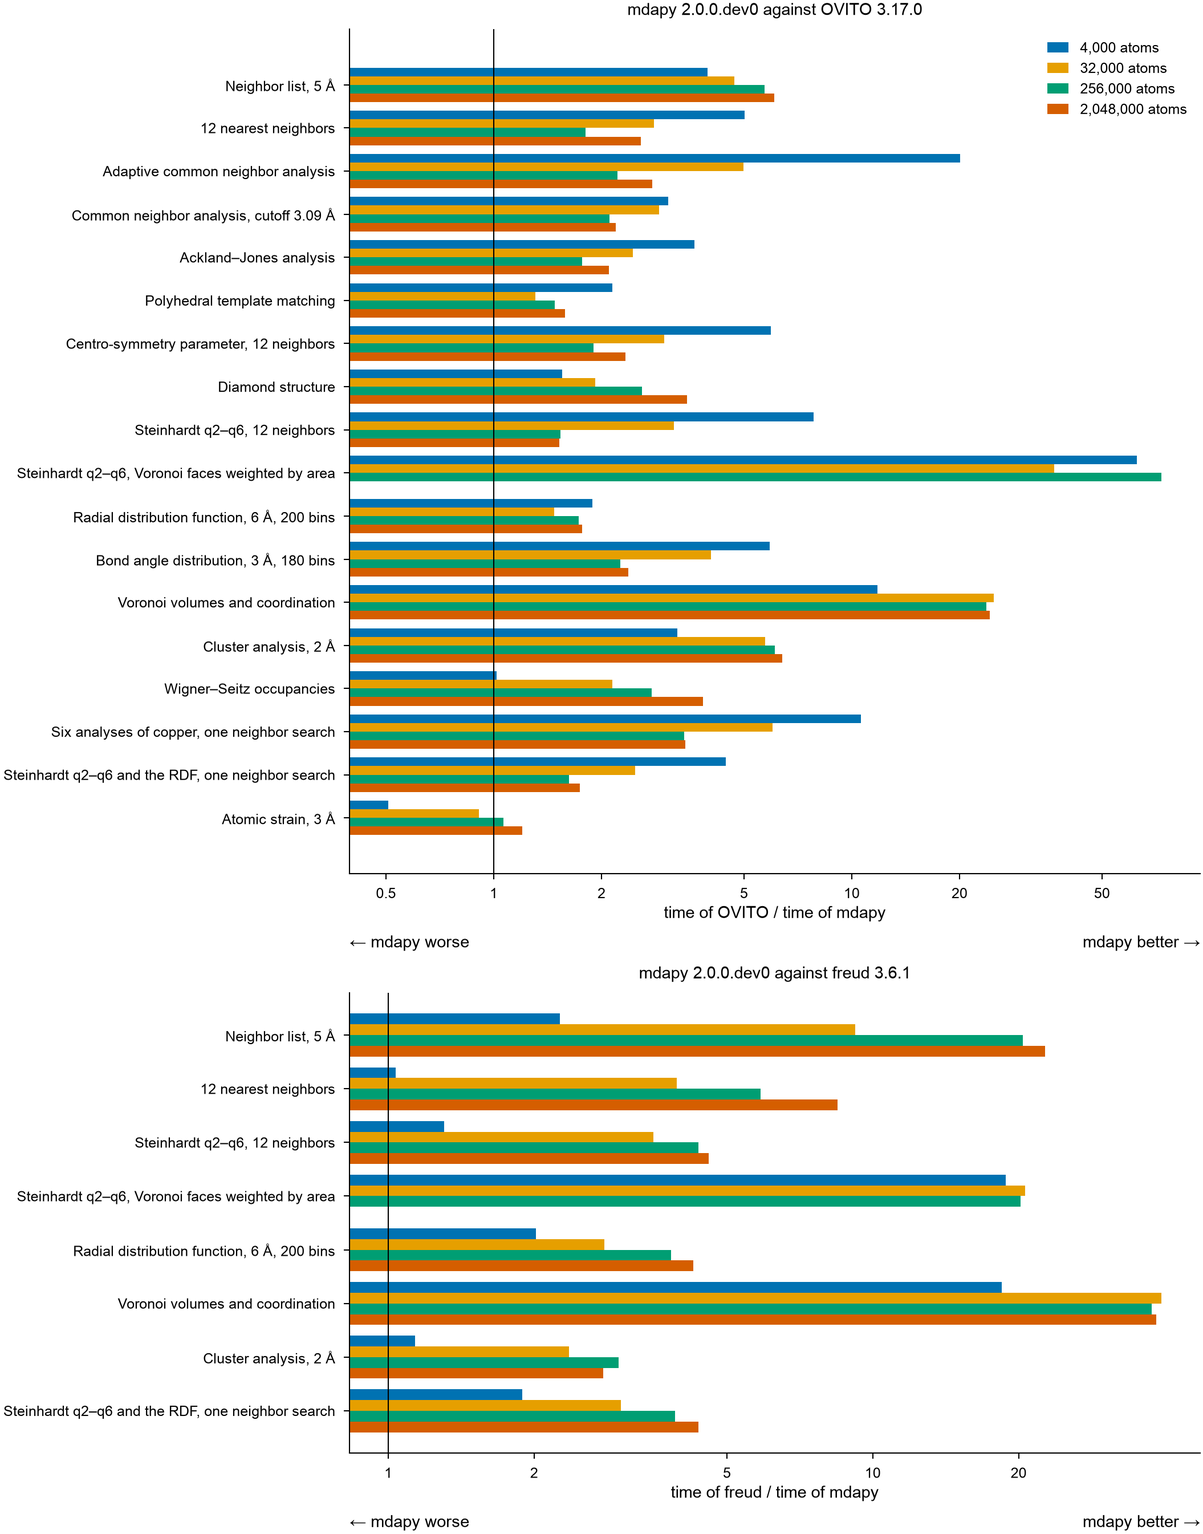
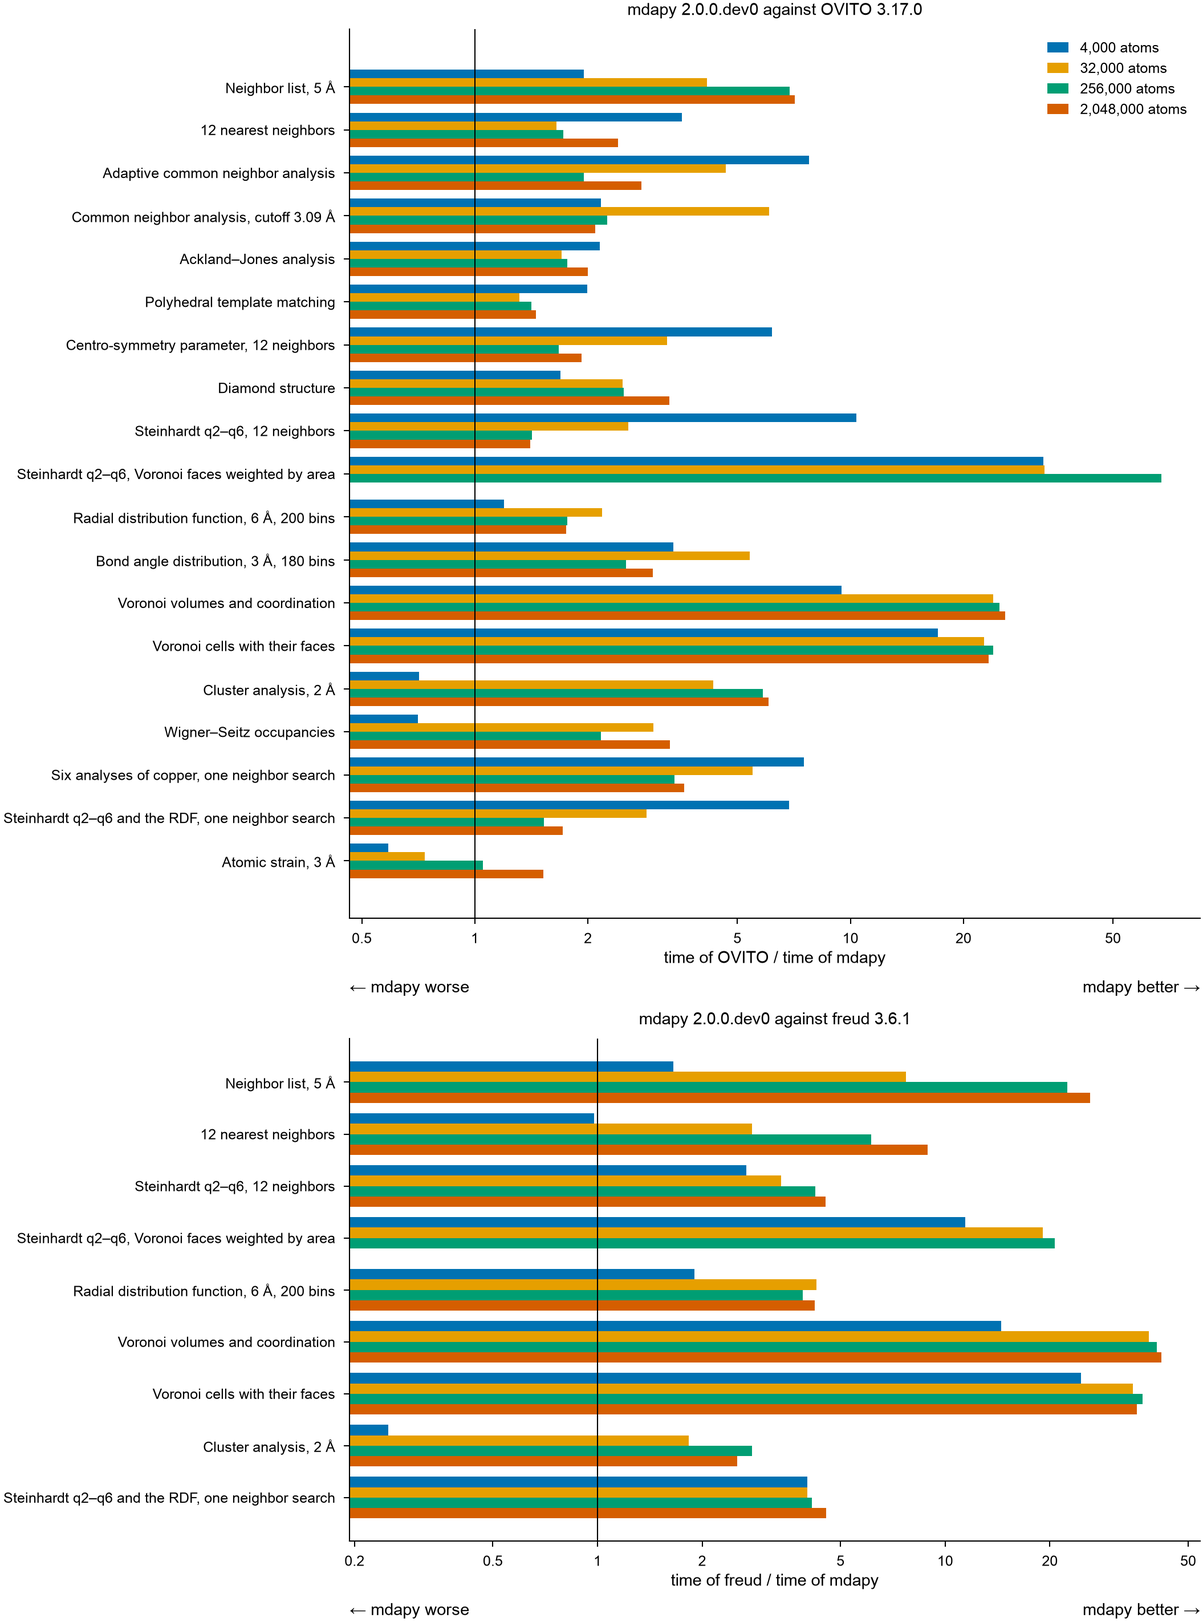
Analyses timings with the Voronoi faces on demand
The analyses group run again on a Triton node, with the Voronoi cells
timed alone and with their faces; four cases rerun where the first run
gave twice the time of every other.

diff --git a/docs/performance/comparison.md b/docs/performance/comparison.md
@@ -8,7 +8,7 @@ where it gives the result of mdapy, atom by atom.
 ## Results
 
 A node of the Triton cluster of Aalto University, alone for the run: two
-Intel Xeon Gold 6230 (40 cores, two NUMA nodes), 191 GB, Linux. Python 3.13,
+Intel Xeon Gold 6248 (40 cores, two NUMA nodes), 191 GB, Linux. Python 3.13,
 mdapy 2.0.0.dev0 built with GCC 12.3, OVITO 3.17.0 and freud 3.6.1 from
 pip, each with 40 threads.
 
@@ -17,24 +17,30 @@ pip, each with 40 threads.
 ### What they show
 
 - **OVITO**: from 256 000 atoms on, mdapy is faster in every analysis they
-  share. It builds neighbor lists 4 to 6 times faster in a quarter of the
-  memory, Voronoi cells 24 times faster, Steinhardt parameters over Voronoi
-  faces 37 to 73 times and cluster analysis 6 times; the other analyses
-  take 1.5 to 3.8 times less time. Atomic strain is the closest: OVITO is
-  faster below some 100 000 atoms (twice at 4 000, 1.1 times at 32 000),
-  mdapy above (1.06 times at 256 000, 1.2 times at 2 million).
-- **freud**: mdapy is faster in every analysis at every size: neighbor
-  lists 9 to 23 times from 32 000 atoms on, in a seventh of the memory; the
-  12 nearest neighbors 4 to 8 times; Voronoi cells 38 times; Steinhardt
-  parameters and the radial distribution function 2.8 to 4.6 times; cluster
-  analysis 2.4 to 3 times.
+  share. It builds neighbor lists 7 times faster in a quarter of the
+  memory, Voronoi cells 23 to 26 times faster, Steinhardt parameters over
+  Voronoi faces 33 to 67 times and cluster analysis 6 times; the other
+  analyses take 1.4 to 3.6 times less time. Atomic strain is the closest:
+  OVITO is faster below some 200 000 atoms (1.7 times at 4 000 and 1.4
+  times at 32 000), mdapy above (1.05 times at 256 000, 1.5 times at 2
+  million).
+- **freud**: from 32 000 atoms on, mdapy is faster in every analysis:
+  neighbor lists 8 to 26 times, in a seventh of the memory; the 12 nearest
+  neighbors 2.8 to 9 times; Voronoi cells 35 to 42 times; Steinhardt
+  parameters and the radial distribution function 3.4 to 4.5 times;
+  cluster analysis 1.8 to 2.8 times.
 - **One neighbor search for several analyses**: the six analyses of copper
-  from one list take 1.21 s at 2 million atoms, against 2.07 s for the six
-  cases timed apart (0.16 s against 0.29 s at 256 000; the radial
+  from one list take 0.81 s at 2 million atoms, against 1.48 s for the six
+  cases timed apart (0.11 s against 0.21 s at 256 000; the radial
   distribution function apart reaches 6 Å instead of 5 Å). OVITO's pipeline
-  of the six takes about the sum of its cases (4.15 s against 4.35 s).
+  of the six takes about the sum of its cases (2.93 s against 3.04 s).
+- **Voronoi faces on demand**: the volumes and coordination of 2 million
+  cells take mdapy 0.92 s and 130 MB; with every face, its neighbor, area
+  and edges, 1.08 s and 1.6 GB.
 - **4 000 atoms** take a few milliseconds; mdapy is faster there in every
-  analysis but atomic strain.
+  analysis but cluster analysis, Wigner–Seitz occupancies and atomic
+  strain against OVITO, and cluster analysis against freud (0.001 s
+  against 0.004 s); the 12 nearest neighbors are on par with freud.
 - **Not run**: Steinhardt parameters over Voronoi faces at 2 million atoms,
   which took OVITO 678 s in an earlier run.
 
@@ -48,113 +54,121 @@ process minus its peak before the timings.
 
 | Case | Atoms | mdapy 2.0.0.dev0 (s) | OVITO 3.17.0 (s) | OVITO / mdapy | mdapy (MB) | OVITO (MB) |
 |---|---:|---:|---:|---:|---:|---:|
-| Neighbor list, 5 Å | 4,000 | 0.004 | 0.016 | 3.96 | 0 | 10 |
-| Neighbor list, 5 Å | 32,000 | 0.009 | 0.042 | 4.70 | 18 | 92 |
-| Neighbor list, 5 Å | 256,000 | 0.038 | 0.216 | 5.70 | 186 | 758 |
-| Neighbor list, 5 Å | 2,048,000 | 0.272 | 1.655 | 6.08 | 1362 | 5324 |
-| 12 nearest neighbors | 4,000 | 0.003 | 0.015 | 5.01 | 0 | 0 |
-| 12 nearest neighbors | 32,000 | 0.007 | 0.019 | 2.80 | 2 | 12 |
-| 12 nearest neighbors | 256,000 | 0.042 | 0.076 | 1.81 | 49 | 100 |
-| 12 nearest neighbors | 2,048,000 | 0.252 | 0.647 | 2.57 | 343 | 751 |
-| Adaptive common neighbor analysis | 4,000 | 0.001 | 0.027 | 20.06 | 0 | 0 |
-| Adaptive common neighbor analysis | 32,000 | 0.007 | 0.033 | 4.98 | 0 | 6 |
-| Adaptive common neighbor analysis | 256,000 | 0.049 | 0.108 | 2.22 | 3 | 45 |
-| Adaptive common neighbor analysis | 2,048,000 | 0.311 | 0.862 | 2.77 | 65 | 118 |
-| Common neighbor analysis, cutoff 3.09 Å | 4,000 | 0.004 | 0.011 | 3.08 | 0 | 0 |
-| Common neighbor analysis, cutoff 3.09 Å | 32,000 | 0.005 | 0.015 | 2.90 | 0 | 6 |
-| Common neighbor analysis, cutoff 3.09 Å | 256,000 | 0.016 | 0.035 | 2.11 | 16 | 28 |
-| Common neighbor analysis, cutoff 3.09 Å | 2,048,000 | 0.104 | 0.228 | 2.19 | 137 | 31 |
-| Ackland–Jones analysis | 4,000 | 0.002 | 0.007 | 3.64 | 0 | 1 |
-| Ackland–Jones analysis | 32,000 | 0.008 | 0.019 | 2.44 | 0 | 8 |
-| Ackland–Jones analysis | 256,000 | 0.057 | 0.100 | 1.77 | 5 | 50 |
-| Ackland–Jones analysis | 2,048,000 | 0.392 | 0.823 | 2.10 | 67 | 119 |
-| Polyhedral template matching | 4,000 | 0.020 | 0.043 | 2.15 | 0 | 1 |
-| Polyhedral template matching | 32,000 | 0.041 | 0.054 | 1.31 | 13 | 10 |
-| Polyhedral template matching | 256,000 | 0.265 | 0.392 | 1.48 | 79 | 33 |
-| Polyhedral template matching | 2,048,000 | 1.991 | 3.153 | 1.58 | 507 | 177 |
-| Centro-symmetry parameter, 12 neighbors | 4,000 | 0.003 | 0.018 | 5.94 | 0 | 0 |
-| Centro-symmetry parameter, 12 neighbors | 32,000 | 0.008 | 0.024 | 2.99 | 0 | 8 |
-| Centro-symmetry parameter, 12 neighbors | 256,000 | 0.047 | 0.089 | 1.90 | 3 | 42 |
-| Centro-symmetry parameter, 12 neighbors | 2,048,000 | 0.303 | 0.707 | 2.33 | 73 | 125 |
-| Diamond structure | 4,096 | 0.003 | 0.005 | 1.55 | 0 | 2 |
-| Diamond structure | 32,768 | 0.008 | 0.014 | 1.92 | 0 | 21 |
-| Diamond structure | 262,144 | 0.038 | 0.099 | 2.59 | 13 | 80 |
-| Diamond structure | 2,000,376 | 0.213 | 0.739 | 3.46 | 100 | 270 |
-| Steinhardt q2–q6, 12 neighbors | 4,000 | 0.003 | 0.024 | 7.81 | 0 | 0 |
-| Steinhardt q2–q6, 12 neighbors | 32,000 | 0.009 | 0.028 | 3.18 | 1 | 10 |
-| Steinhardt q2–q6, 12 neighbors | 256,000 | 0.061 | 0.094 | 1.54 | 15 | 58 |
-| Steinhardt q2–q6, 12 neighbors | 2,048,000 | 0.495 | 0.755 | 1.53 | 70 | 111 |
-| Steinhardt q2–q6, Voronoi faces weighted by area | 4,000 | 0.009 | 0.545 | 62.54 | 2 | 1 |
-| Steinhardt q2–q6, Voronoi faces weighted by area | 32,000 | 0.067 | 2.447 | 36.76 | 50 | 12 |
-| Steinhardt q2–q6, Voronoi faces weighted by area | 256,000 | 0.524 | 38.419 | 73.29 | 433 | 36 |
-| Radial distribution function, 6 Å, 200 bins | 4,000 | 0.005 | 0.009 | 1.89 | 0 | 0 |
-| Radial distribution function, 6 Å, 200 bins | 32,000 | 0.008 | 0.012 | 1.48 | 0 | 4 |
-| Radial distribution function, 6 Å, 200 bins | 256,000 | 0.032 | 0.055 | 1.73 | 23 | 18 |
-| Radial distribution function, 6 Å, 200 bins | 2,048,000 | 0.245 | 0.433 | 1.77 | 73 | 0 |
-| Bond angle distribution, 3 Å, 180 bins | 4,000 | 0.004 | 0.024 | 5.90 | 0 | 2 |
-| Bond angle distribution, 3 Å, 180 bins | 32,000 | 0.008 | 0.032 | 4.04 | 0 | 35 |
-| Bond angle distribution, 3 Å, 180 bins | 256,000 | 0.045 | 0.102 | 2.26 | 18 | 255 |
-| Bond angle distribution, 3 Å, 180 bins | 2,048,000 | 0.324 | 0.768 | 2.37 | 166 | 1352 |
-| Voronoi volumes and coordination | 4,000 | 0.007 | 0.083 | 11.81 | 1 | 0 |
-| Voronoi volumes and coordination | 32,000 | 0.027 | 0.663 | 24.88 | 21 | 2 |
-| Voronoi volumes and coordination | 256,000 | 0.223 | 5.310 | 23.78 | 205 | 8 |
-| Voronoi volumes and coordination | 2,048,000 | 1.754 | 42.578 | 24.28 | 1583 | 21 |
-| Cluster analysis, 2 Å | 3,998 | 0.001 | 0.004 | 3.26 | 0 | 0 |
-| Cluster analysis, 2 Å | 31,966 | 0.005 | 0.030 | 5.73 | 2 | 6 |
-| Cluster analysis, 2 Å | 255,756 | 0.041 | 0.251 | 6.10 | 27 | 28 |
-| Cluster analysis, 2 Å | 2,046,192 | 0.439 | 2.804 | 6.39 | 219 | 0 |
-| Wigner–Seitz occupancies | 3,974 | 0.002 | 0.002 | 1.02 | 0 | 1 |
-| Wigner–Seitz occupancies | 31,811 | 0.004 | 0.008 | 2.15 | 0 | 8 |
-| Wigner–Seitz occupancies | 254,734 | 0.020 | 0.055 | 2.76 | 3 | 36 |
-| Wigner–Seitz occupancies | 2,037,841 | 0.122 | 0.470 | 3.84 | 17 | 148 |
-| Six analyses of copper, one neighbor search | 4,000 | 0.010 | 0.110 | 10.61 | 1 | 7 |
-| Six analyses of copper, one neighbor search | 32,000 | 0.025 | 0.149 | 6.01 | 20 | 84 |
-| Six analyses of copper, one neighbor search | 256,000 | 0.157 | 0.533 | 3.40 | 187 | 462 |
-| Six analyses of copper, one neighbor search | 2,048,000 | 1.210 | 4.152 | 3.43 | 1339 | 1720 |
-| Steinhardt q2–q6 and the RDF, one neighbor search | 4,000 | 0.007 | 0.032 | 4.45 | 1 | 1 |
-| Steinhardt q2–q6 and the RDF, one neighbor search | 32,000 | 0.015 | 0.038 | 2.48 | 20 | 12 |
-| Steinhardt q2–q6 and the RDF, one neighbor search | 256,000 | 0.081 | 0.132 | 1.62 | 174 | 73 |
-| Steinhardt q2–q6 and the RDF, one neighbor search | 2,048,000 | 0.592 | 1.031 | 1.74 | 1340 | 93 |
-| Atomic strain, 3 Å | 4,000 | 0.004 | 0.002 | 0.51 | 0 | 0 |
-| Atomic strain, 3 Å | 32,000 | 0.005 | 0.004 | 0.91 | 1 | 6 |
-| Atomic strain, 3 Å | 256,000 | 0.016 | 0.017 | 1.06 | 46 | 44 |
-| Atomic strain, 3 Å | 2,048,000 | 0.090 | 0.108 | 1.20 | 232 | 269 |
+| Neighbor list, 5 Å | 4,000 | 0.004 | 0.008 | 1.95 | 0 | 10 |
+| Neighbor list, 5 Å | 32,000 | 0.008 | 0.033 | 4.15 | 19 | 129 |
+| Neighbor list, 5 Å | 256,000 | 0.026 | 0.181 | 6.88 | 173 | 722 |
+| Neighbor list, 5 Å | 2,048,000 | 0.190 | 1.346 | 7.10 | 1356 | 5300 |
+| 12 nearest neighbors | 4,000 | 0.002 | 0.008 | 3.56 | 0 | 1 |
+| 12 nearest neighbors | 32,000 | 0.007 | 0.012 | 1.65 | 3 | 12 |
+| 12 nearest neighbors | 256,000 | 0.029 | 0.050 | 1.72 | 49 | 100 |
+| 12 nearest neighbors | 2,048,000 | 0.183 | 0.441 | 2.41 | 343 | 751 |
+| Adaptive common neighbor analysis | 4,000 | 0.002 | 0.015 | 7.75 | 0 | 0 |
+| Adaptive common neighbor analysis | 32,000 | 0.004 | 0.020 | 4.65 | 0 | 8 |
+| Adaptive common neighbor analysis | 256,000 | 0.039 | 0.075 | 1.95 | 3 | 50 |
+| Adaptive common neighbor analysis | 2,048,000 | 0.215 | 0.598 | 2.78 | 66 | 119 |
+| Common neighbor analysis, cutoff 3.09 Å | 4,000 | 0.003 | 0.007 | 2.16 | 0 | 0 |
+| Common neighbor analysis, cutoff 3.09 Å | 32,000 | 0.002 | 0.009 | 6.07 | 0 | 5 |
+| Common neighbor analysis, cutoff 3.09 Å | 256,000 | 0.010 | 0.023 | 2.25 | 16 | 29 |
+| Common neighbor analysis, cutoff 3.09 Å | 2,048,000 | 0.075 | 0.158 | 2.09 | 137 | 31 |
+| Ackland–Jones analysis | 4,000 | 0.002 | 0.004 | 2.15 | 0 | 1 |
+| Ackland–Jones analysis | 32,000 | 0.006 | 0.010 | 1.70 | 0 | 9 |
+| Ackland–Jones analysis | 256,000 | 0.039 | 0.068 | 1.76 | 4 | 50 |
+| Ackland–Jones analysis | 2,048,000 | 0.282 | 0.563 | 2.00 | 65 | 118 |
+| Polyhedral template matching | 4,000 | 0.013 | 0.026 | 1.99 | 0 | 1 |
+| Polyhedral template matching | 32,000 | 0.031 | 0.041 | 1.31 | 13 | 10 |
+| Polyhedral template matching | 256,000 | 0.197 | 0.278 | 1.42 | 80 | 36 |
+| Polyhedral template matching | 2,048,000 | 1.532 | 2.228 | 1.45 | 507 | 177 |
+| Centro-symmetry parameter, 12 neighbors | 4,000 | 0.002 | 0.011 | 6.19 | 0 | 0 |
+| Centro-symmetry parameter, 12 neighbors | 32,000 | 0.005 | 0.015 | 3.24 | 0 | 5 |
+| Centro-symmetry parameter, 12 neighbors | 256,000 | 0.035 | 0.058 | 1.67 | 3 | 42 |
+| Centro-symmetry parameter, 12 neighbors | 2,048,000 | 0.248 | 0.478 | 1.93 | 73 | 124 |
+| Diamond structure | 4,096 | 0.002 | 0.004 | 1.69 | 0 | 2 |
+| Diamond structure | 32,768 | 0.004 | 0.010 | 2.47 | 0 | 21 |
+| Diamond structure | 262,144 | 0.028 | 0.070 | 2.49 | 13 | 80 |
+| Diamond structure | 2,000,376 | 0.157 | 0.517 | 3.30 | 112 | 270 |
+| Steinhardt q2–q6, 12 neighbors | 4,000 | 0.001 | 0.014 | 10.37 | 0 | 0 |
+| Steinhardt q2–q6, 12 neighbors | 32,000 | 0.007 | 0.017 | 2.56 | 0 | 10 |
+| Steinhardt q2–q6, 12 neighbors | 256,000 | 0.044 | 0.063 | 1.42 | 14 | 57 |
+| Steinhardt q2–q6, 12 neighbors | 2,048,000 | 0.366 | 0.513 | 1.40 | 66 | 79 |
+| Steinhardt q2–q6, Voronoi faces weighted by area | 4,000 | 0.009 | 0.296 | 32.61 | 2 | 0 |
+| Steinhardt q2–q6, Voronoi faces weighted by area | 32,000 | 0.043 | 1.401 | 32.87 | 56 | 12 |
+| Steinhardt q2–q6, Voronoi faces weighted by area | 256,000 | 0.335 | 22.583 | 67.32 | 423 | 41 |
+| Radial distribution function, 6 Å, 200 bins | 4,000 | 0.004 | 0.005 | 1.19 | 0 | 0 |
+| Radial distribution function, 6 Å, 200 bins | 32,000 | 0.004 | 0.009 | 2.18 | 0 | 4 |
+| Radial distribution function, 6 Å, 200 bins | 256,000 | 0.022 | 0.038 | 1.76 | 11 | 19 |
+| Radial distribution function, 6 Å, 200 bins | 2,048,000 | 0.169 | 0.295 | 1.75 | 73 | 0 |
+| Bond angle distribution, 3 Å, 180 bins | 4,000 | 0.004 | 0.014 | 3.37 | 0 | 2 |
+| Bond angle distribution, 3 Å, 180 bins | 32,000 | 0.004 | 0.021 | 5.40 | 0 | 37 |
+| Bond angle distribution, 3 Å, 180 bins | 256,000 | 0.031 | 0.078 | 2.53 | 18 | 273 |
+| Bond angle distribution, 3 Å, 180 bins | 2,048,000 | 0.197 | 0.588 | 2.98 | 167 | 1328 |
+| Voronoi volumes and coordination | 4,000 | 0.005 | 0.047 | 9.47 | 0 | 0 |
+| Voronoi volumes and coordination | 32,000 | 0.015 | 0.371 | 23.95 | 0 | 2 |
+| Voronoi volumes and coordination | 256,000 | 0.119 | 2.958 | 24.95 | 29 | 7 |
+| Voronoi volumes and coordination | 2,048,000 | 0.923 | 23.841 | 25.83 | 130 | 22 |
+| Voronoi cells with their faces | 4,000 | 0.003 | 0.050 | 17.11 | 0 | 2 |
+| Voronoi cells with their faces | 32,000 | 0.017 | 0.392 | 22.71 | 26 | 18 |
+| Voronoi cells with their faces | 256,000 | 0.131 | 3.151 | 23.99 | 206 | 145 |
+| Voronoi cells with their faces | 2,048,000 | 1.083 | 25.281 | 23.34 | 1595 | 943 |
+| Cluster analysis, 2 Å | 3,998 | 0.004 | 0.003 | 0.71 | 0 | 0 |
+| Cluster analysis, 2 Å | 31,966 | 0.004 | 0.017 | 4.31 | 1 | 6 |
+| Cluster analysis, 2 Å | 255,756 | 0.028 | 0.163 | 5.85 | 39 | 28 |
+| Cluster analysis, 2 Å | 2,046,192 | 0.341 | 2.066 | 6.06 | 222 | 0 |
+| Wigner–Seitz occupancies | 3,974 | 0.001 | 0.001 | 0.70 | 0 | 1 |
+| Wigner–Seitz occupancies | 31,811 | 0.002 | 0.006 | 2.99 | 0 | 8 |
+| Wigner–Seitz occupancies | 254,734 | 0.017 | 0.036 | 2.16 | 2 | 36 |
+| Wigner–Seitz occupancies | 2,037,841 | 0.096 | 0.316 | 3.31 | 47 | 147 |
+| Six analyses of copper, one neighbor search | 4,000 | 0.009 | 0.064 | 7.52 | 1 | 8 |
+| Six analyses of copper, one neighbor search | 32,000 | 0.017 | 0.095 | 5.49 | 20 | 72 |
+| Six analyses of copper, one neighbor search | 256,000 | 0.109 | 0.370 | 3.41 | 174 | 492 |
+| Six analyses of copper, one neighbor search | 2,048,000 | 0.813 | 2.933 | 3.61 | 1340 | 1697 |
+| Steinhardt q2–q6 and the RDF, one neighbor search | 4,000 | 0.003 | 0.019 | 6.86 | 1 | 1 |
+| Steinhardt q2–q6 and the RDF, one neighbor search | 32,000 | 0.009 | 0.026 | 2.86 | 20 | 12 |
+| Steinhardt q2–q6 and the RDF, one neighbor search | 256,000 | 0.058 | 0.088 | 1.52 | 188 | 85 |
+| Steinhardt q2–q6 and the RDF, one neighbor search | 2,048,000 | 0.420 | 0.720 | 1.71 | 1340 | 134 |
+| Atomic strain, 3 Å | 4,000 | 0.004 | 0.002 | 0.59 | 0 | 0 |
+| Atomic strain, 3 Å | 32,000 | 0.005 | 0.003 | 0.73 | 0 | 6 |
+| Atomic strain, 3 Å | 256,000 | 0.012 | 0.013 | 1.05 | 46 | 45 |
+| Atomic strain, 3 Å | 2,048,000 | 0.063 | 0.095 | 1.52 | 232 | 236 |
 
 #### freud
 
 | Case | Atoms | mdapy 2.0.0.dev0 (s) | freud 3.6.1 (s) | freud / mdapy | mdapy (MB) | freud (MB) |
 |---|---:|---:|---:|---:|---:|---:|
-| Neighbor list, 5 Å | 4,000 | 0.004 | 0.009 | 2.26 | 0 | 24 |
-| Neighbor list, 5 Å | 32,000 | 0.009 | 0.082 | 9.19 | 18 | 197 |
-| Neighbor list, 5 Å | 256,000 | 0.038 | 0.772 | 20.40 | 186 | 1567 |
-| Neighbor list, 5 Å | 2,048,000 | 0.272 | 6.180 | 22.70 | 1362 | 9667 |
-| 12 nearest neighbors | 4,000 | 0.003 | 0.003 | 1.04 | 0 | 2 |
-| 12 nearest neighbors | 32,000 | 0.007 | 0.027 | 3.93 | 2 | 51 |
-| 12 nearest neighbors | 256,000 | 0.042 | 0.247 | 5.86 | 49 | 431 |
-| 12 nearest neighbors | 2,048,000 | 0.252 | 2.125 | 8.45 | 343 | 3268 |
-| Steinhardt q2–q6, 12 neighbors | 4,000 | 0.003 | 0.004 | 1.30 | 0 | 1 |
-| Steinhardt q2–q6, 12 neighbors | 32,000 | 0.009 | 0.031 | 3.52 | 1 | 15 |
-| Steinhardt q2–q6, 12 neighbors | 256,000 | 0.061 | 0.268 | 4.36 | 15 | 123 |
-| Steinhardt q2–q6, 12 neighbors | 2,048,000 | 0.495 | 2.267 | 4.58 | 70 | 908 |
-| Steinhardt q2–q6, Voronoi faces weighted by area | 4,000 | 0.009 | 0.164 | 18.80 | 2 | 7 |
-| Steinhardt q2–q6, Voronoi faces weighted by area | 32,000 | 0.067 | 1.374 | 20.64 | 50 | 61 |
-| Steinhardt q2–q6, Voronoi faces weighted by area | 256,000 | 0.524 | 10.567 | 20.16 | 433 | 461 |
-| Radial distribution function, 6 Å, 200 bins | 4,000 | 0.005 | 0.010 | 2.02 | 0 | 0 |
-| Radial distribution function, 6 Å, 200 bins | 32,000 | 0.008 | 0.022 | 2.79 | 0 | 6 |
-| Radial distribution function, 6 Å, 200 bins | 256,000 | 0.032 | 0.123 | 3.83 | 23 | 56 |
-| Radial distribution function, 6 Å, 200 bins | 2,048,000 | 0.245 | 1.046 | 4.26 | 73 | 239 |
-| Voronoi volumes and coordination | 4,000 | 0.007 | 0.129 | 18.45 | 1 | 7 |
-| Voronoi volumes and coordination | 32,000 | 0.027 | 1.051 | 39.43 | 21 | 60 |
-| Voronoi volumes and coordination | 256,000 | 0.223 | 8.399 | 37.62 | 205 | 461 |
-| Voronoi volumes and coordination | 2,048,000 | 1.754 | 67.523 | 38.51 | 1583 | 3650 |
-| Cluster analysis, 2 Å | 3,998 | 0.001 | 0.001 | 1.14 | 0 | 0 |
-| Cluster analysis, 2 Å | 31,966 | 0.005 | 0.012 | 2.36 | 2 | 0 |
-| Cluster analysis, 2 Å | 255,756 | 0.041 | 0.123 | 2.99 | 27 | 26 |
-| Cluster analysis, 2 Å | 2,046,192 | 0.439 | 1.217 | 2.77 | 219 | 249 |
-| Steinhardt q2–q6 and the RDF, one neighbor search | 4,000 | 0.007 | 0.014 | 1.89 | 1 | 0 |
-| Steinhardt q2–q6 and the RDF, one neighbor search | 32,000 | 0.015 | 0.047 | 3.02 | 20 | 18 |
-| Steinhardt q2–q6 and the RDF, one neighbor search | 256,000 | 0.081 | 0.317 | 3.91 | 174 | 142 |
-| Steinhardt q2–q6 and the RDF, one neighbor search | 2,048,000 | 0.592 | 2.588 | 4.37 | 1340 | 848 |
+| Neighbor list, 5 Å | 4,000 | 0.004 | 0.007 | 1.66 | 0 | 22 |
+| Neighbor list, 5 Å | 32,000 | 0.008 | 0.061 | 7.70 | 19 | 201 |
+| Neighbor list, 5 Å | 256,000 | 0.026 | 0.591 | 22.41 | 173 | 1586 |
+| Neighbor list, 5 Å | 2,048,000 | 0.190 | 4.946 | 26.07 | 1356 | 9668 |
+| 12 nearest neighbors | 4,000 | 0.002 | 0.002 | 0.98 | 0 | 2 |
+| 12 nearest neighbors | 32,000 | 0.007 | 0.020 | 2.78 | 3 | 52 |
+| 12 nearest neighbors | 256,000 | 0.029 | 0.178 | 6.12 | 49 | 433 |
+| 12 nearest neighbors | 2,048,000 | 0.183 | 1.628 | 8.90 | 343 | 3267 |
+| Steinhardt q2–q6, 12 neighbors | 4,000 | 0.001 | 0.004 | 2.68 | 0 | 0 |
+| Steinhardt q2–q6, 12 neighbors | 32,000 | 0.007 | 0.023 | 3.37 | 0 | 16 |
+| Steinhardt q2–q6, 12 neighbors | 256,000 | 0.044 | 0.188 | 4.23 | 14 | 126 |
+| Steinhardt q2–q6, 12 neighbors | 2,048,000 | 0.366 | 1.655 | 4.53 | 66 | 909 |
+| Steinhardt q2–q6, Voronoi faces weighted by area | 4,000 | 0.009 | 0.103 | 11.41 | 2 | 7 |
+| Steinhardt q2–q6, Voronoi faces weighted by area | 32,000 | 0.043 | 0.813 | 19.06 | 56 | 61 |
+| Steinhardt q2–q6, Voronoi faces weighted by area | 256,000 | 0.335 | 6.936 | 20.68 | 423 | 461 |
+| Radial distribution function, 6 Å, 200 bins | 4,000 | 0.004 | 0.008 | 1.90 | 0 | 30 |
+| Radial distribution function, 6 Å, 200 bins | 32,000 | 0.004 | 0.017 | 4.26 | 0 | 35 |
+| Radial distribution function, 6 Å, 200 bins | 256,000 | 0.022 | 0.084 | 3.90 | 11 | 54 |
+| Radial distribution function, 6 Å, 200 bins | 2,048,000 | 0.169 | 0.711 | 4.22 | 73 | 208 |
+| Voronoi volumes and coordination | 4,000 | 0.005 | 0.072 | 14.47 | 0 | 5 |
+| Voronoi volumes and coordination | 32,000 | 0.015 | 0.598 | 38.59 | 0 | 61 |
+| Voronoi volumes and coordination | 256,000 | 0.119 | 4.811 | 40.58 | 29 | 461 |
+| Voronoi volumes and coordination | 2,048,000 | 0.923 | 38.658 | 41.89 | 130 | 3651 |
+| Voronoi cells with their faces | 4,000 | 0.003 | 0.072 | 24.61 | 0 | 7 |
+| Voronoi cells with their faces | 32,000 | 0.017 | 0.598 | 34.64 | 26 | 61 |
+| Voronoi cells with their faces | 256,000 | 0.131 | 4.851 | 36.93 | 206 | 461 |
+| Voronoi cells with their faces | 2,048,000 | 1.083 | 38.538 | 35.58 | 1595 | 3651 |
+| Cluster analysis, 2 Å | 3,998 | 0.004 | 0.001 | 0.25 | 0 | 0 |
+| Cluster analysis, 2 Å | 31,966 | 0.004 | 0.007 | 1.83 | 1 | 0 |
+| Cluster analysis, 2 Å | 255,756 | 0.028 | 0.078 | 2.78 | 39 | 27 |
+| Cluster analysis, 2 Å | 2,046,192 | 0.341 | 0.860 | 2.52 | 222 | 252 |
+| Steinhardt q2–q6 and the RDF, one neighbor search | 4,000 | 0.003 | 0.011 | 4.01 | 1 | 30 |
+| Steinhardt q2–q6 and the RDF, one neighbor search | 32,000 | 0.009 | 0.036 | 4.01 | 20 | 44 |
+| Steinhardt q2–q6 and the RDF, one neighbor search | 256,000 | 0.058 | 0.239 | 4.13 | 188 | 143 |
+| Steinhardt q2–q6 and the RDF, one neighbor search | 2,048,000 | 0.420 | 1.910 | 4.54 | 1340 | 848 |
 
 ## Cases
 
@@ -200,9 +214,10 @@ radial distribution function.
   (1e-8 for Steinhardt parameters weighted by Voronoi faces, whose areas
   come from two tessellations), for neighbor lists the same number of
   neighbors of each atom and the same sum of their distances, and for
-  Voronoi cells the same volumes and numbers of faces, but for faces of no
-  area that one tessellation of millions of atoms finds and the other not
-  (at most one atom in 100 000). freud computes in single precision, which
+  Voronoi cells the same volumes and numbers of faces, and with the faces
+  as many of OVITO's bonds at each atom, but for faces of no area that one
+  tessellation of millions of atoms finds and the other not (at most one
+  atom in 100 000). freud computes in single precision, which
   rounds positions in a box of 600 Å by some 3e-5 Å: values agree within
   1e-4; the numbers of neighbors and the bins of the radial distribution
   function within the pairs closer than 1e-4 Å to a cutoff or the edge of a
@@ -217,6 +232,12 @@ radial distribution function.
 - Each process first computes the case for 500 atoms, so that loading
   libraries and starting threads are not timed, then three times for the
   system; the shortest time counts.
+- The run gave common neighbor analysis with a fixed cutoff and atomic
+  strain at 2 million atoms twice the time mdapy took in every other run,
+  so four cases (these two, cluster analysis and neighbor lists) at 4 000
+  and 2 million atoms were run twice more, for every program, in a second
+  job on the same kind of node; the tables show the last of these runs,
+  which agreed with the one before within 10 %.
 - The time runs from the call to the result, with every neighbor search.
   Making the system and converting it into OVITO's data collection or
   freud's box and points are not timed. OVITO computes a new pipeline each
